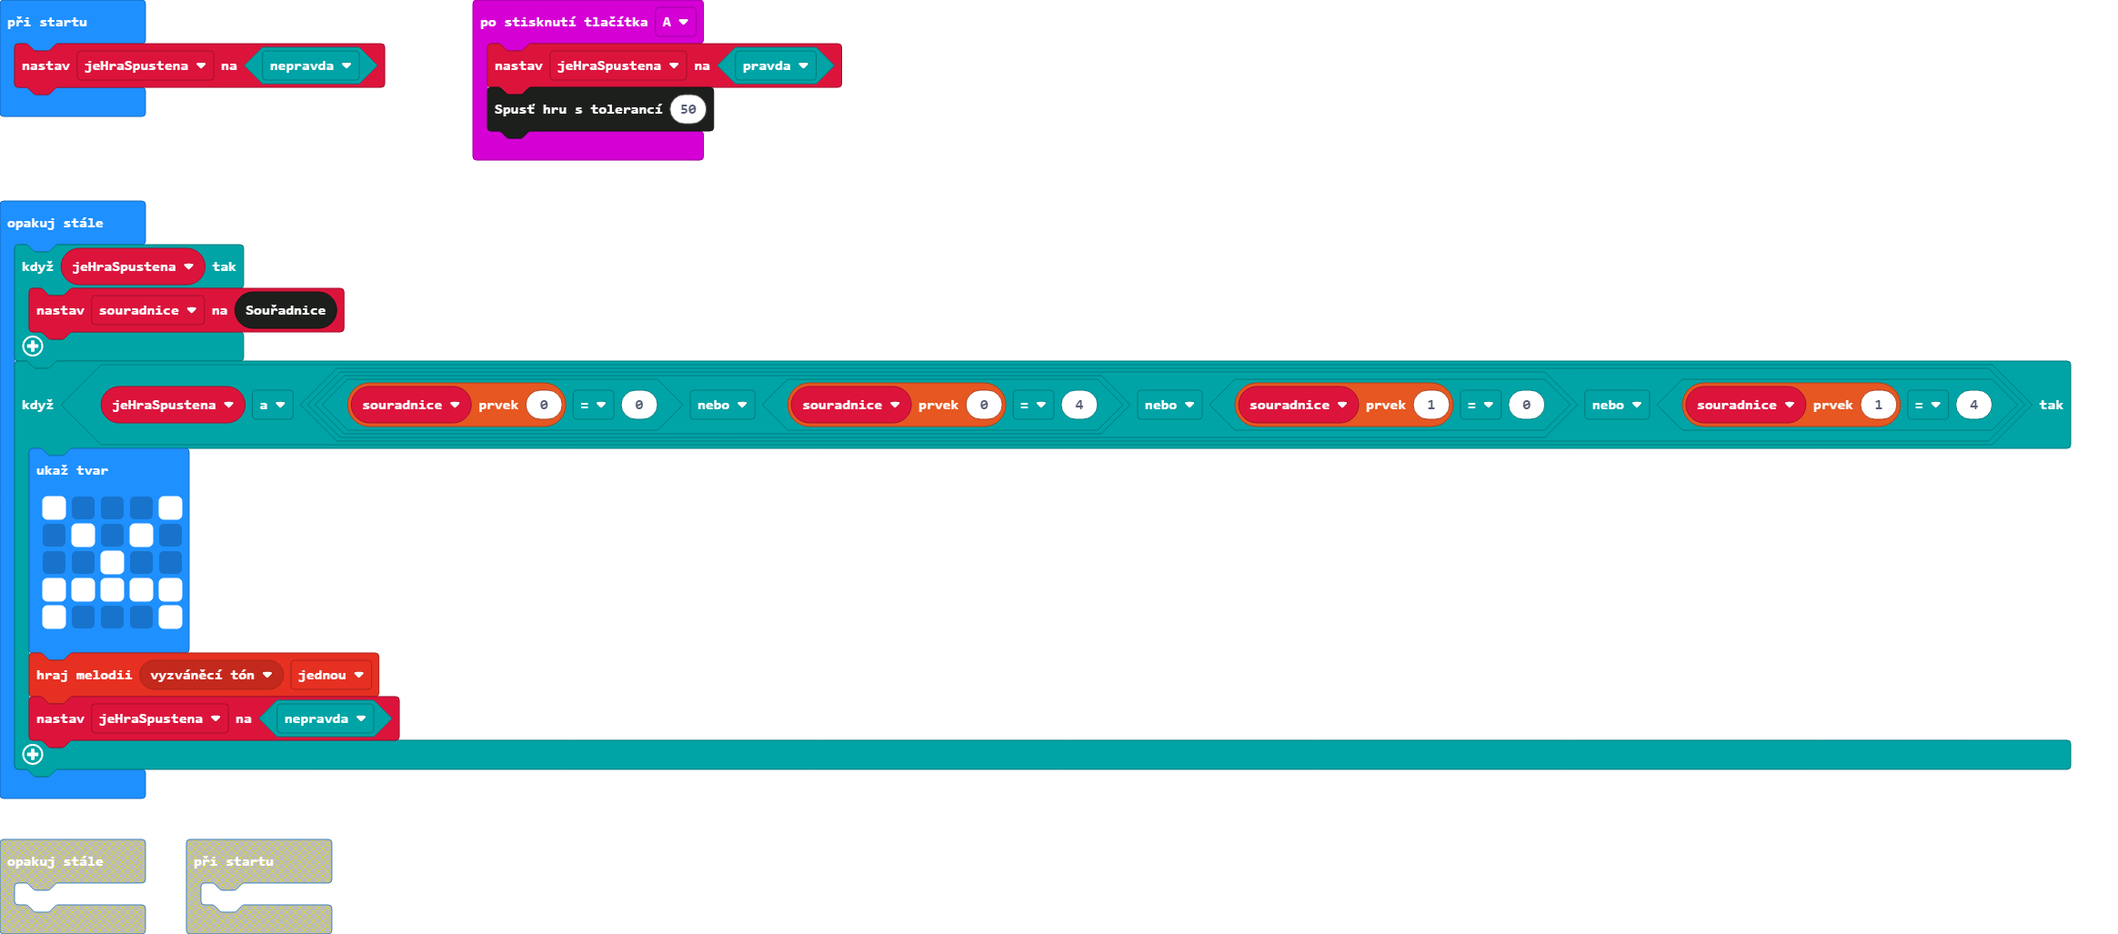
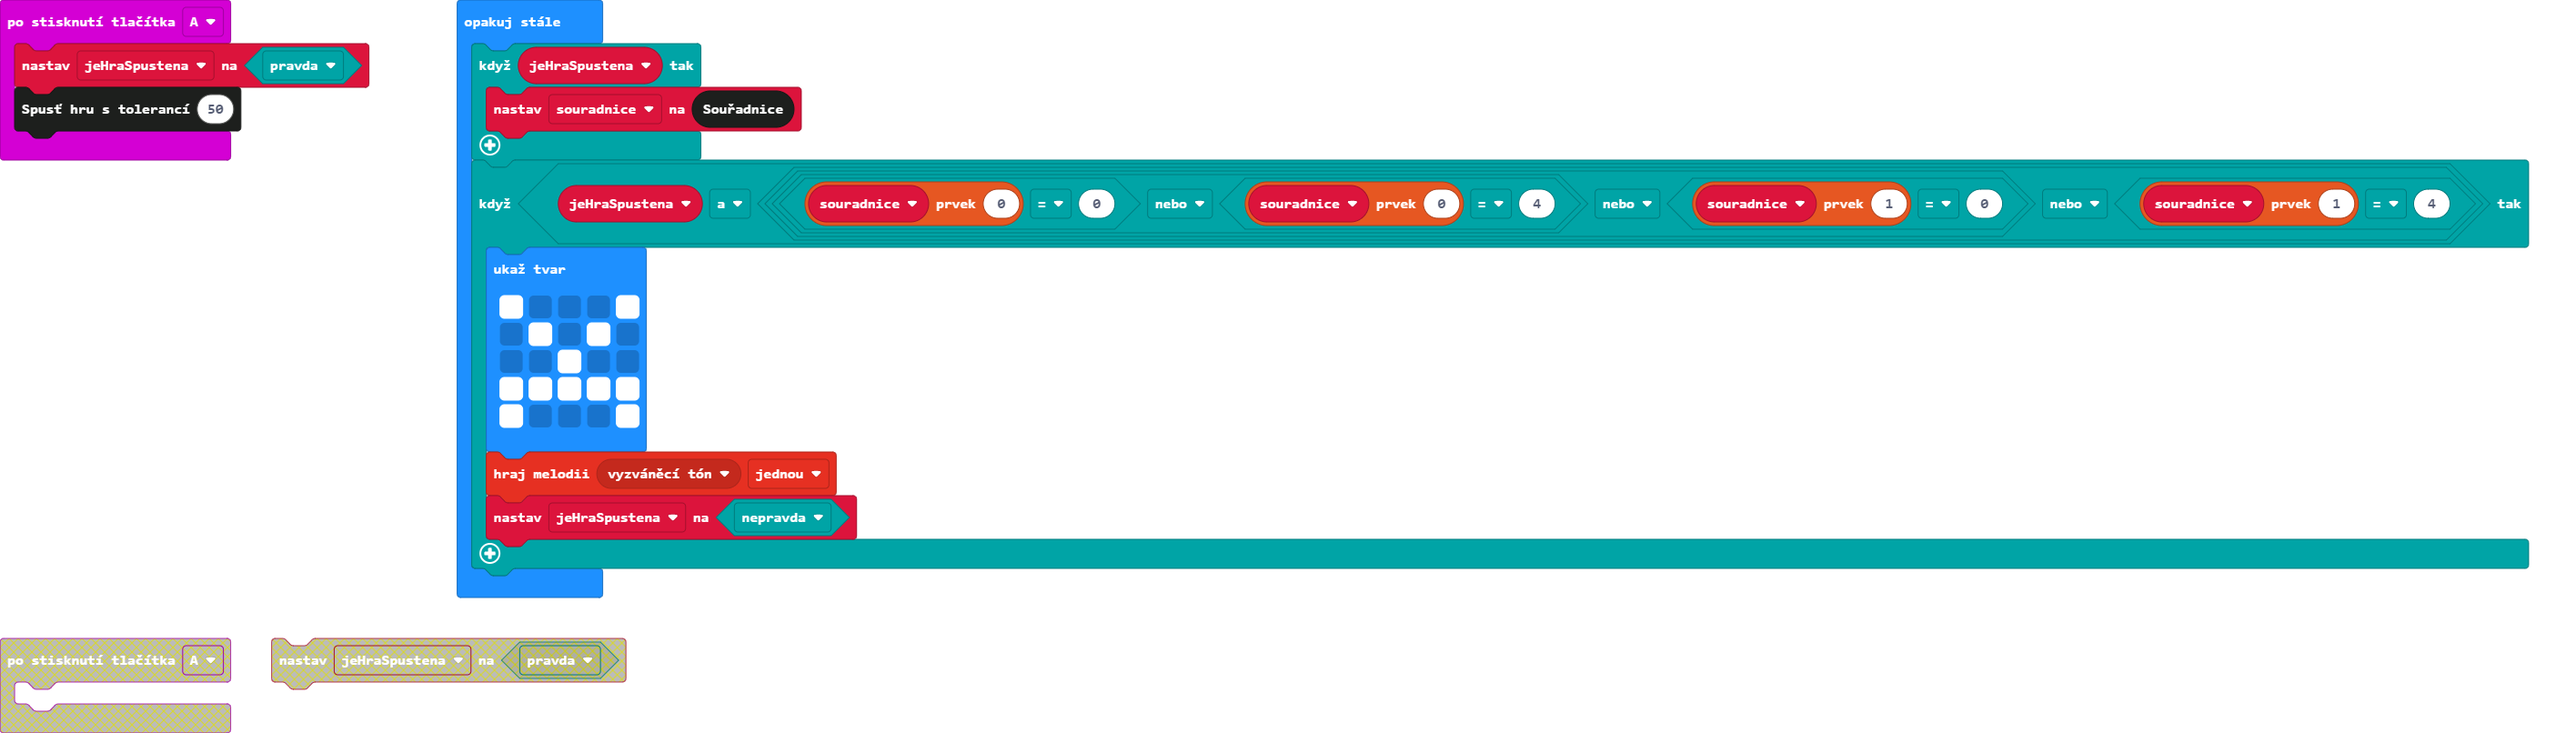
Aktualizovat pxt.json, main.blocks, balancing.ts

diff --git a/balancing.ts b/balancing.ts
@@ -1,28 +1,20 @@
-/**
- * Použijte tento soubor k definování personalizovaných funkcí a bloků.
- * Přečtěte si více na https://makecode.microbit.org/blocks/custom
- */
-
-
-/**
- * Custom blocks
- */
-//% weight=100 color=#1d1f1d icon="\uf24e"
+//% weight=100 color=#1d1f1d icon="\uf24e" block="Balancování"
 namespace Balancovani {
 
-    let boundary = 30
+    let okraje = 30
     let x = 0
     let y = 0
-    let prevX = 0
-    let prevY = 0
+    let predchoziX  = 0
+    let predchoziY = 0
     let aktualniSouradnice: number[] = []
 
     /**
     * Spustí hru a nastaví toleranci
+    * @tolerance Tolerance nakloňení a zrychlení
     */
     //% block="Spusť hru s tolerancí %tolerance"
     export function spustitHru(tolerance: number): void {
-        boundary = tolerance
+        okraje = tolerance
         basic.showLeds(`
         . . . . .
         . . . . .
@@ -30,8 +22,8 @@ namespace Balancovani {
         . . . . .
         . . . . .
         `)
-        x = Math.floor(Math.map(input.rotation(Rotation.Roll), 0 - boundary, boundary, 0, 4) / 0.8)
-        y = Math.floor(Math.map(input.rotation(Rotation.Pitch), 0 - boundary, boundary, 0, 4) / 0.8)
+        x = Math.floor(Math.map(input.rotation(Rotation.Roll), 0 - okraje, okraje, 0, 4) / 0.8)
+        y = Math.floor(Math.map(input.rotation(Rotation.Pitch), 0 - okraje, okraje, 0, 4) / 0.8)
         led.plot(x, y)
     }
 
@@ -40,12 +32,12 @@ namespace Balancovani {
     */
     //% block="Souřadnice"
     export function souradnice(): number[] {
-        prevX = x
-        prevY = y
-        x = Math.floor(Math.map(input.rotation(Rotation.Roll), 0 - boundary, boundary, 0, 4) / 0.8)
-        y = Math.floor(Math.map(input.rotation(Rotation.Pitch), 0 - boundary, boundary, 0, 4) / 0.8)
-        if (x != prevX || y != prevY) {
-            led.unplot(prevX, prevY)
+        predchoziX  = x
+        predchoziY = y
+        x = Math.floor(Math.map(input.rotation(Rotation.Roll), 0 - okraje, okraje, 0, 4) / 0.8)
+        y = Math.floor(Math.map(input.rotation(Rotation.Pitch), 0 - okraje, okraje, 0, 4) / 0.8)
+        if (x != predchoziX || y != predchoziY) {
+            led.unplot(predchoziX, predchoziY)
             led.plot(x, y)
         }
         aktualniSouradnice[0] = x
